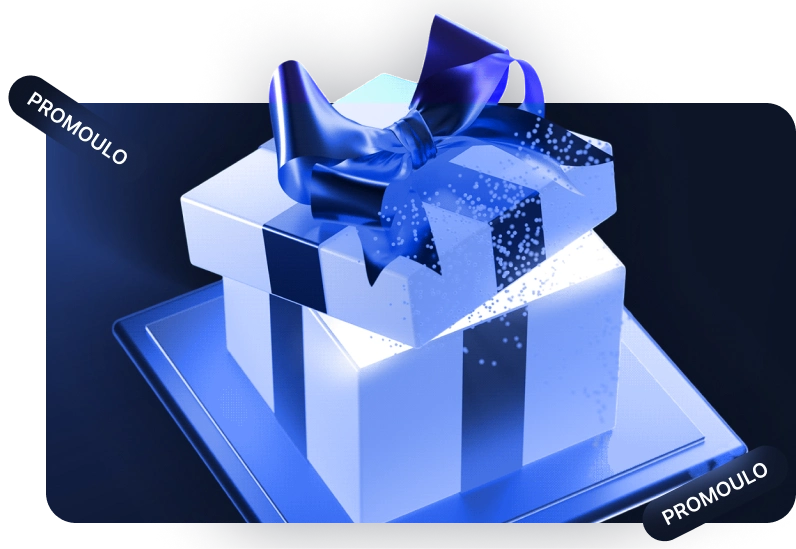
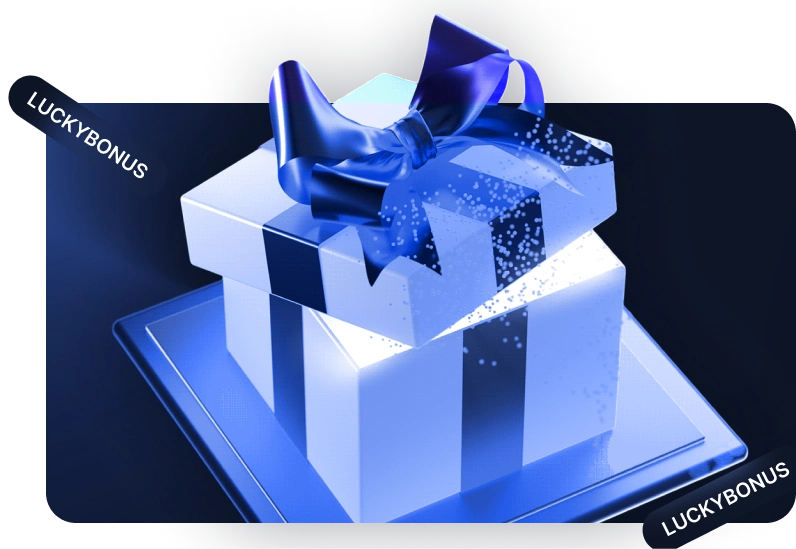
hotfixes

Changed region(s): [[0.7839, 0.8051, 0.995, 1.0], [0.0302, 0.1548, 0.1809, 0.3406]]

diff --git a/app/index.html b/app/index.html
@@ -81,8 +81,9 @@
             The best gambling platform to play on
           </h1>
           <p class="home__text">
-            Lorem ipsum dolor sit amet, consectetur adipiscing elit. Mauris ac dui sodales,
-            auctor ante sed, venenatis enim. Nullam pretium lacus id sem elementum maximus
+            At JetGold, victory is just a spin away! Join the ultimate gambling platform for non-stop excitement,
+            incredible bonuses, and the chance to hit big. Play now and feel the thrill of every win using promo
+            LUCKYBONUS!
           </p>
           <div class="home__actions">
             <a class="btn" href="/">
@@ -112,8 +113,8 @@
         We are chosen by most players, we have the best conditions
       </h2>
       <p class="about__text">
-        Lorem ipsum dolor sit amet, consectetur adipiscing elit. Mauris ac dui sodales, auctor ante sed,
-        venenatis enim. Nullam pretium lacus id sem elementum maximus
+        JetGold stands out with top-quality games, secure transactions, and rewarding bonuses. Join the most trusted
+        platform and experience why so many players choose us for their winning journey!
       </p>
     </div>
   </div>
@@ -160,8 +161,8 @@
         <span class="subtitle">Get bonuses</span>
         <h2 class="title-section">Play at our casino and get constant bonuses from our team</h2>
         <p class="bonuses__text">
-          Lorem ipsum dolor sit amet, consectetur adipiscing elit. Mauris ac dui sodales, auctor ante sed,
-          venenatis enim. Nullam pretium lacus id sem elementum maximus.
+          Play at our casino and get constant bonuses from our team! Use special promo LUCKYBONUS
+          to claim a $5555 bonus on your balance and start winning big today!
         </p>
       </div>
     </div>

diff --git a/app/html/home/_home.html b/app/html/home/_home.html
@@ -8,8 +8,9 @@
             The best gambling platform to play on
           </h1>
           <p class="home__text">
-            Lorem ipsum dolor sit amet, consectetur adipiscing elit. Mauris ac dui sodales,
-            auctor ante sed, venenatis enim. Nullam pretium lacus id sem elementum maximus
+            At JetGold, victory is just a spin away! Join the ultimate gambling platform for non-stop excitement,
+            incredible bonuses, and the chance to hit big. Play now and feel the thrill of every win using promo
+            LUCKYBONUS!
           </p>
           <div class="home__actions">
             <a class="btn" href="/">

diff --git a/app/html/home/_bonuses.html b/app/html/home/_bonuses.html
@@ -6,8 +6,8 @@
         <span class="subtitle">Get bonuses</span>
         <h2 class="title-section">Play at our casino and get constant bonuses from our team</h2>
         <p class="bonuses__text">
-          Lorem ipsum dolor sit amet, consectetur adipiscing elit. Mauris ac dui sodales, auctor ante sed,
-          venenatis enim. Nullam pretium lacus id sem elementum maximus.
+          Play at our casino and get constant bonuses from our team! Use special promo LUCKYBONUS
+          to claim a $5555 bonus on your balance and start winning big today!
         </p>
       </div>
     </div>

diff --git a/app/html/home/_about.html b/app/html/home/_about.html
@@ -6,8 +6,8 @@
         We are chosen by most players, we have the best conditions
       </h2>
       <p class="about__text">
-        Lorem ipsum dolor sit amet, consectetur adipiscing elit. Mauris ac dui sodales, auctor ante sed,
-        venenatis enim. Nullam pretium lacus id sem elementum maximus
+        JetGold stands out with top-quality games, secure transactions, and rewarding bonuses. Join the most trusted
+        platform and experience why so many players choose us for their winning journey!
       </p>
     </div>
   </div>
